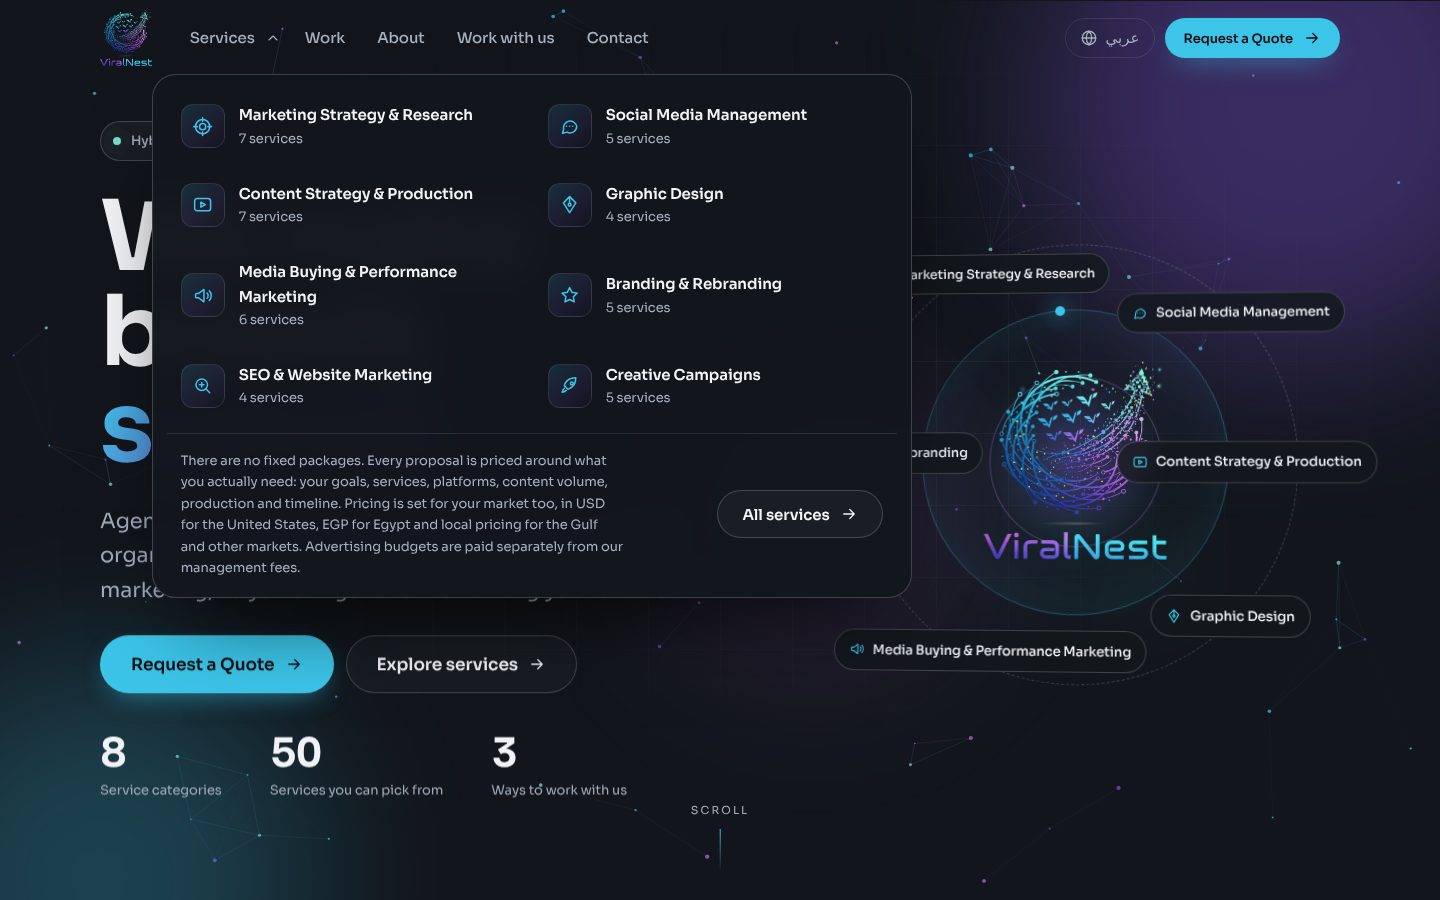
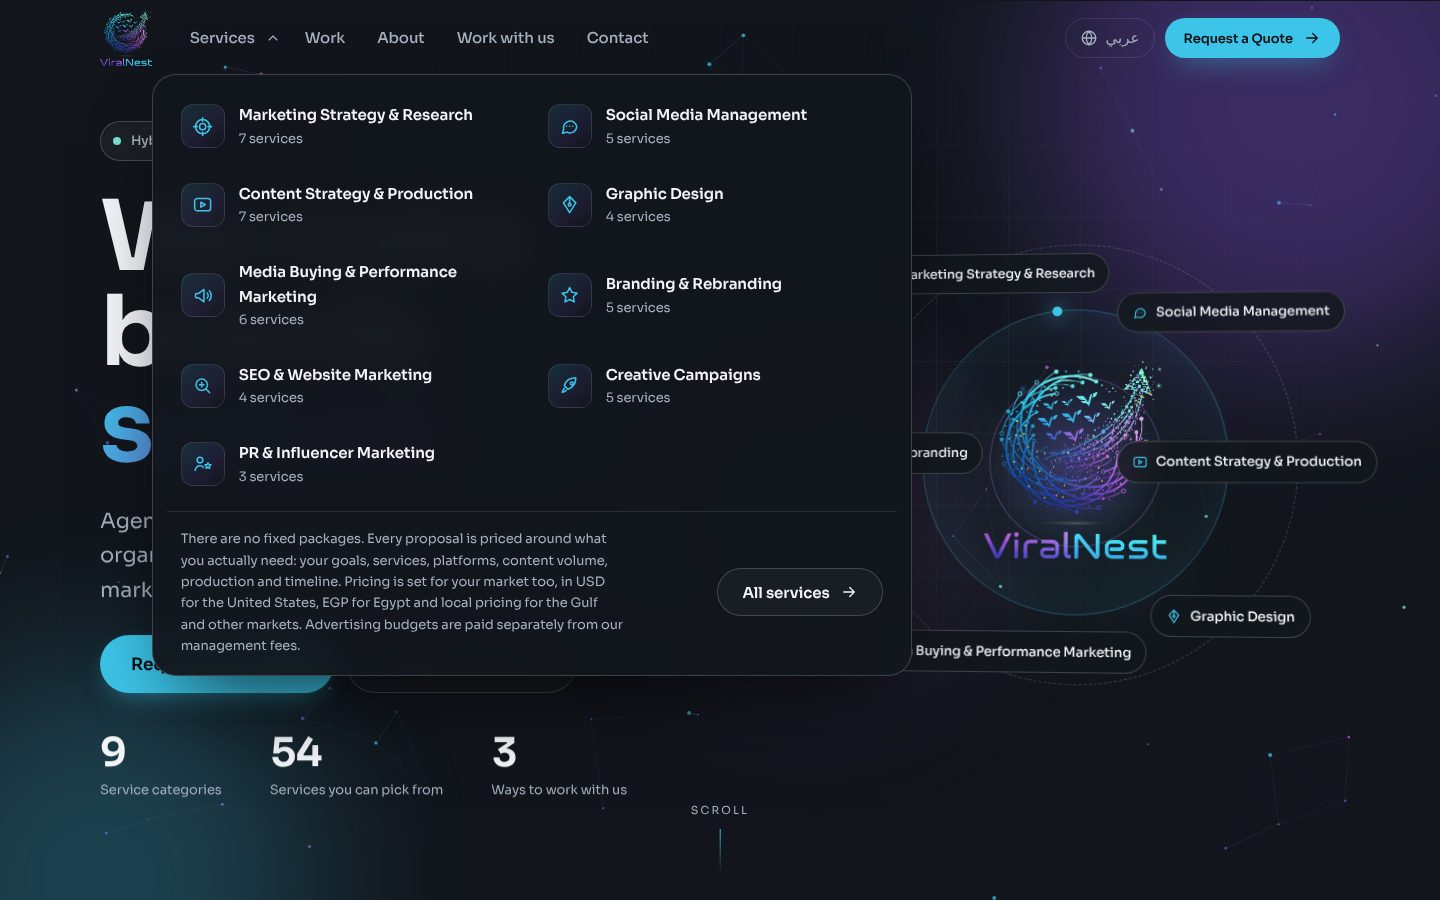
Add PR & Influencer Marketing service (UGC creators, blogger collaborations)
- New service category in EN/AR with its own page, quote-form options and icon
- One-time upgrade patch adds it to sites set up before 2.1.0
- Tests for the service and the upgrade path; screenshots updated

Claude-Session: https://claude.ai/code/session_01BPL8NTVdJPV1mrgSLn53N4

diff --git a/app/src/seed.php b/app/src/seed.php
@@ -3,6 +3,7 @@
  * Starter content, created once by the first-run setup.
  *
  * - The 8 service categories and their sub-services from Part 04 of the ViralNest Master Brief v2.0,
+ *   plus PR & Influencer Marketing (UGC creators and blogger collaborations), added at the owner's request,
  *   published in English and Egyptian Arabic. A focused subset is enabled in the quote form.
  * - Portfolio drafts for the projects named in the brief: unpublished, client not approved, no
  *   results. Nothing here invents results, testimonials, prices or contact details.
@@ -111,6 +112,16 @@ function vn_starter_services(): array {
 				array( 'promotional-sales-campaigns', 'publish', array( 'Promotional and sales campaigns', 'Offers and promotions designed to drive sales.' ), array( 'حملات العروض والمبيعات', 'عروض وبروموشنز معمولة عشان تزوّد المبيعات.' ), 1 ),
 				array( 'brand-awareness-campaigns', 'publish', array( 'Brand awareness campaigns', 'Getting your brand known by the right audience.' ), array( 'حملات الوعي بالبراند', 'نعرّف الجمهور الصح بالبراند بتاعك.' ), 1 ),
 				array( 'creative-advertising-concepts', 'publish', array( 'Creative advertising concepts', 'Big ideas that make your ads memorable.' ), array( 'أفكار إعلانية إبداعية', 'أفكار كبيرة بتخلّي إعلاناتك تتفتكر.' ), 0 ),
+			),
+		),
+		array(
+			'slug' => 'pr-influencer-marketing', 'icon' => 'influencer',
+			'en'   => array( 'PR & Influencer Marketing', 'We connect your brand with new UGC creators and bloggers, and set up the collaborations for you.', 'People trust people. We connect your brand with new UGC creators who make authentic content about your products, and we set up collaborations with bloggers and influencers whose audience fits yours. We handle the coordination for you: choosing the right creators, writing a clear brief, agreeing on the timeline and reviewing the content before it goes live.' ),
+			'ar'   => array( 'العلاقات العامة والتسويق بالمؤثرين', 'بنوصّلك بصنّاع محتوى UGC جداد وبلوجرز، وبنظبطلك التعاون معاهم.', 'الناس بتصدّق الناس. بنوصّل البراند بتاعك بصنّاع محتوى UGC جداد بيعملوا محتوى حقيقي عن منتجاتك، وبنعملك تعاونات مع بلوجرز ومؤثرين جمهورهم شبه جمهورك. وإحنا بنتابع التنسيق كله بدالك: نختار صنّاع المحتوى المناسبين، ونكتب بريف واضح، ونتفق على المواعيد، ونراجع المحتوى قبل ما ينزل.' ),
+			'children' => array(
+				array( 'ugc-creators', 'publish', array( 'UGC creator connections', 'We connect you with new UGC creators who make real, relatable content for your brand.' ), array( 'التوصيل بصنّاع محتوى UGC', 'بنوصّلك بصنّاع محتوى UGC جداد بيعملوا محتوى حقيقي وقريب من الناس للبراند بتاعك.' ), 1 ),
+				array( 'blogger-collaborations', 'publish', array( 'Blogger and influencer collaborations', 'Partnerships with bloggers and influencers whose audience fits your brand.' ), array( 'التعاون مع البلوجرز والمؤثرين', 'شراكات مع بلوجرز ومؤثرين جمهورهم مناسب للبراند بتاعك.' ), 1 ),
+				array( 'collaboration-management', 'publish', array( 'Collaboration management', 'Briefs, timelines and content review, handled for you from start to finish.' ), array( 'إدارة التعاونات', 'البريف والمواعيد ومراجعة المحتوى، بنتابعها بدالك من الأول للآخر.' ), 0 ),
 			),
 		),
 	);
@@ -263,4 +274,27 @@ function vn_seed_projects(): void {
 			}
 		}
 	}
+}
+
+/**
+ * Adds starter services introduced after a site was first set up. Each patch runs once; if the
+ * owner later deletes or edits the service in Studio, it is not re-created or overwritten.
+ */
+function vn_seed_patches(): void {
+	if ( ! kv_get( 'seeded' ) || kv_get( 'seed_patch_pr_influencer' ) ) {
+		return;
+	}
+	foreach ( vn_starter_services() as $svc ) {
+		if ( 'pr-influencer-marketing' !== $svc['slug'] ) {
+			continue;
+		}
+		$pos = (int) db_val( 'SELECT COALESCE(MAX(position), 0) FROM vn_services WHERE parent_id = 0' ) + 10;
+		$pid = vn_seed_service( 0, $svc['slug'], 'publish', $svc['en'], $svc['ar'], 1, $pos, $svc['icon'], false );
+		$co  = 0;
+		foreach ( $svc['children'] as $child ) {
+			vn_seed_service( $pid, $child[0], $child[1], $child[2], $child[3], (int) ( $child[4] ?? 1 ), $co += 10, 'strategy', false );
+		}
+	}
+	kv_set( 'seed_patch_pr_influencer', gmdate( 'c' ) );
+	vn_catalog_flush();
 }

diff --git a/tests/php/run-tests.php b/tests/php/run-tests.php
@@ -92,12 +92,27 @@ vn_migrate();
 check( 'migrations are idempotent', (int) db_val( 'SELECT COUNT(*) FROM vn_migrations' ) === $before );
 vn_seed();
 $tops = (int) db_val( "SELECT COUNT(*) FROM vn_services WHERE parent_id = 0 AND status = 'publish'" );
-check( 'starter content: 8 published service categories', 8 === $tops, (string) $tops );
+check( 'starter content: 9 published service categories', 9 === $tops, (string) $tops );
 check( 'starter content: sub-services seeded', (int) db_val( "SELECT COUNT(*) FROM vn_services WHERE parent_id > 0" ) > 30 );
 check( 'portfolio drafts are not published (no client permission yet)', 0 === (int) db_val( "SELECT COUNT(*) FROM vn_projects WHERE status = 'publish'" ) );
 check( 'portfolio drafts claim no results', 0 === (int) db_val( "SELECT COUNT(*) FROM vn_projects WHERE (outcomes_verified = 1 OR en_outcomes <> '')" ) );
 vn_seed();
 check( 'seeding twice does not duplicate content', $tops === (int) db_val( "SELECT COUNT(*) FROM vn_services WHERE parent_id = 0 AND status = 'publish'" ) );
+$pr = (int) db_val( "SELECT id FROM vn_services WHERE slug = 'pr-influencer-marketing' AND parent_id = 0" );
+check( 'PR & Influencer Marketing service exists in EN and AR', $pr > 0 && '' !== (string) db_val( 'SELECT ar_title FROM vn_services WHERE id = ?', array( $pr ) ) );
+check( 'PR & Influencer Marketing has UGC and blogger sub-services', 2 === (int) db_val( "SELECT COUNT(*) FROM vn_services WHERE parent_id = ? AND slug IN ('ugc-creators','blogger-collaborations') AND quote_enabled = 1", array( $pr ) ) );
+// A site set up before this service existed gets it once on upgrade, and never twice.
+db_q( 'DELETE FROM vn_services WHERE id = ? OR parent_id = ?', array( $pr, $pr ) );
+kv_set( 'seed_patch_pr_influencer', null );
+vn_seed_patches();
+vn_seed_patches();
+check( 'upgrade adds PR & Influencer Marketing once', 1 === (int) db_val( "SELECT COUNT(*) FROM vn_services WHERE slug = 'pr-influencer-marketing'" ) && 3 === (int) db_val( "SELECT COUNT(*) FROM vn_services s JOIN vn_services t ON t.id = s.parent_id WHERE t.slug = 'pr-influencer-marketing'" ) );
+db_q( "DELETE FROM vn_services WHERE slug = 'pr-influencer-marketing'" );
+vn_seed_patches();
+check( 'a deleted PR service is not re-created', 0 === (int) db_val( "SELECT COUNT(*) FROM vn_services WHERE slug = 'pr-influencer-marketing'" ) );
+db_q( "DELETE FROM vn_services WHERE parent_id > 0 AND parent_id NOT IN (SELECT id FROM (SELECT id FROM vn_services) x)" );
+kv_set( 'seed_patch_pr_influencer', null );
+vn_seed_patches();
 check( 'brand images imported to the media library', (int) db_val( 'SELECT COUNT(*) FROM vn_media WHERE brand_asset = 1' ) >= 1 );
 $s = vn_settings();
 check( 'no contact details are invented', '' === $s['public_email'] && '' === $s['public_phone'] && '' === $s['whatsapp_number'] );

diff --git a/app/src/content.php b/app/src/content.php
@@ -235,7 +235,7 @@ You join our specialist network", "قدّم وابعت نماذج من شغلك
 				'about_title'      => array( 'text', 'About: title', 'About ViralNest | Hybrid digital marketing agency', 'عن ViralNest | وكالة تسويق رقمي هجينة' ),
 				'about_desc'       => array( 'textarea', 'About: description', 'Why ViralNest exists, how our hybrid agency model works, and what startups and growing businesses can expect from one coordinated team.', 'ليه عملنا ViralNest، وإزاي نموذج الوكالة الهجين بيشتغل، وتقدر تتوقع إيه من فريق واحد متنسّق.' ),
 				'services_title'   => array( 'text', 'Services: title', 'Digital marketing services | ViralNest', 'خدمات التسويق الرقمي | ViralNest' ),
-				'services_desc'    => array( 'textarea', 'Services: description', 'Marketing strategy and research, social media management, content, graphic design, Meta Ads, branding, SEO and creative campaigns. Buy one service or all of them.', 'استراتيجية وأبحاث تسويق، إدارة سوشيال ميديا، محتوى، تصميم، إعلانات ميتا، براندينج، SEO وحملات إبداعية. خد خدمة واحدة أو كلهم.' ),
+				'services_desc'    => array( 'textarea', 'Services: description', 'Marketing strategy and research, social media management, content, graphic design, Meta Ads, branding, SEO, creative campaigns, and PR and influencer marketing with UGC creators and bloggers. Buy one service or all of them.', 'استراتيجية وأبحاث تسويق، إدارة سوشيال ميديا، محتوى، تصميم، إعلانات ميتا، براندينج، SEO، حملات إبداعية، وعلاقات عامة وتسويق بالمؤثرين مع صنّاع محتوى UGC وبلوجرز. خد خدمة واحدة أو كلهم.' ),
 				'portfolio_title'  => array( 'text', 'Portfolio: title', 'Our work | ViralNest', 'شغلنا | ViralNest' ),
 				'portfolio_desc'   => array( 'textarea', 'Portfolio: description', 'Selected ViralNest projects across strategy, content, design and campaigns.', 'مشاريع مختارة من شغل ViralNest في الاستراتيجية والمحتوى والتصميم والحملات.' ),
 				'contact_title'    => array( 'text', 'Contact: title', 'Contact ViralNest', 'تواصل مع ViralNest' ),

diff --git a/app/src/render.php b/app/src/render.php
@@ -120,6 +120,7 @@ function vn_icon( string $name, string $class = 'vn-icon' ): string {
 		'media'      => '<path d="M4 10.5v3a1 1 0 0 0 1 1h2.5l6 4.5v-14l-6 4.5H5a1 1 0 0 0-1 1Z"/><path d="M17 9a4.2 4.2 0 0 1 0 6M19.5 6.5a8 8 0 0 1 0 11"/>',
 		'branding'   => '<path d="m12 3 2.6 5.3 5.9.9-4.3 4.1 1 5.8L12 16.4l-5.2 2.7 1-5.8-4.3-4.1 5.9-.9z"/>',
 		'seo'        => '<circle cx="11" cy="11" r="6.5"/><path d="m20 20-4.4-4.4M8.5 11h5M11 8.5v5"/>',
+		'influencer' => '<circle cx="9" cy="8" r="3.2"/><path d="M3.5 19.5c.8-3.3 3-5.2 5.5-5.2 1.6 0 3 .7 4 2"/><path d="m18 11 1 2.1 2.3.3-1.7 1.6.4 2.3-2-1.1-2 1.1.4-2.3-1.7-1.6 2.3-.3z"/>',
 		'campaign'   => '<path d="M9 15 6 12c2-6 7-9 13-9 0 6-3 11-9 13z"/><circle cx="14.5" cy="9.5" r="1.6"/><path d="M6 15c-1.6 1.2-2.4 4.6-2.4 4.6s3.4-.8 4.6-2.4"/>',
 		'whatsapp'   => '<path d="M20 11.6a8.4 8.4 0 0 1-12.4 7.3L3.5 20l1.2-4A8.4 8.4 0 1 1 20 11.6Z"/><path d="M9 8.6c.2 3 2.9 5.8 6 6.1l1.2-1.4-1.9-1-1 .7a4.8 4.8 0 0 1-2.6-2.6l.7-1-.9-1.9z"/>',
 		'mail'       => '<rect x="3" y="5" width="18" height="14" rx="3"/><path d="m4 7.5 8 5.5 8-5.5"/>',

diff --git a/app/src/admin.php b/app/src/admin.php
@@ -519,7 +519,7 @@ function vn_admin_send_cv( array $app ): never {
 /* ---------------------------------------------------------------- Services */
 
 function vn_service_icons(): array {
-	return array( 'strategy', 'social', 'content', 'design', 'media', 'branding', 'seo', 'campaign', 'globe', 'users', 'layers', 'spark' );
+	return array( 'strategy', 'social', 'content', 'design', 'media', 'branding', 'seo', 'campaign', 'influencer', 'globe', 'users', 'layers', 'spark' );
 }
 
 function vn_admin_services( int $id, string $sub, bool $post ): void {

diff --git a/app/src/migrate.php b/app/src/migrate.php
@@ -23,6 +23,9 @@ function vn_maybe_migrate(): void {
 		// Tables don't exist yet: fall through and create them.
 	}
 	vn_migrate();
+	if ( function_exists( 'vn_seed_patches' ) ) {
+		vn_seed_patches();
+	}
 	kv_set( 'schema', $want );
 }
 

diff --git a/app/bootstrap.php b/app/bootstrap.php
@@ -8,7 +8,7 @@
 
 declare(strict_types=1);
 
-define( 'VN_VERSION', '2.0.0' );
+define( 'VN_VERSION', '2.1.0' );
 define( 'VN_APP', __DIR__ );
 define( 'VN_STORAGE', __DIR__ . '/storage' );
 if ( ! defined( 'VN_PUBLIC' ) ) {

diff --git a/HANDOVER.md b/HANDOVER.md
@@ -1,10 +1,10 @@
-# ViralNest 2.0 handover
+# ViralNest 2.1 handover
 
 ViralNest is now a custom PHP + MySQL website with its own dashboard, **ViralNest Studio**. WordPress is not used. The old WordPress version is kept on the `wordpress` branch for reference only.
 
 ## What's in the box
 - **Public site (EN + AR, right-to-left):**
-  - Pages: Home, Services (8 categories, each with its own page), Work (portfolio case studies), About, Work with us (freelancer applications), Contact, Request a Quote, Privacy, and 404.
+  - Pages: Home, Services (9 categories, including PR & Influencer Marketing, each with its own page), Work (portfolio case studies), About, Work with us (freelancer applications), Contact, Request a Quote, Privacy, and 404.
   - Features: animations that respect reduced motion, a consent banner, first-party analytics, SEO (sitemap, hreflang, schema) and the real ViralNest logo.
 - **ViralNest Studio (`/admin`):**
   - Overview
@@ -28,7 +28,7 @@ ViralNest is now a custom PHP + MySQL website with its own dashboard, **ViralNes
 | Colours, type, components | `docs/DESIGN-GUIDE.md` |
 | Tables and data retention | `docs/DATABASE-SCHEMA.md` |
 | Screenshots | `design/screenshots/` |
-| Upload package | `dist/viralnest-hostinger-2.0.0.zip` (build with `tools/package.sh`) |
+| Upload package | `dist/viralnest-hostinger-2.1.0.zip` (build with `tools/package.sh`) |
 
 ## Rules this build follows
 - No invented testimonials, results, client logos, prices, contact details or office locations. Prices are hidden until you switch them on.

diff --git a/docs/VERIFICATION-REPORT.md b/docs/VERIFICATION-REPORT.md
@@ -1,6 +1,6 @@
 # ViralNest verification report
 
-**Date:** 23 November 2026 · **Build:** ViralNest 2.0.0 (custom PHP + MySQL, no WordPress)
+**Date:** 23 November 2026 · **Build:** ViralNest 2.1.0 (custom PHP + MySQL, no WordPress)
 
 This report lists only checks that were actually run, with their results. Checks that need the real hosting, real accounts or a human decision are listed under **Pending** below. Those were not run and are not claimed here.
 
@@ -19,7 +19,7 @@ This report lists only checks that were actually run, with their results. Checks
 | Suite | Command | Result |
 |---|---|---|
 | PHP syntax lint | `php -l` on every PHP file | **0 errors** |
-| Integration tests (real database `vn_test`, plus HTTP checks) | `php tests/php/run-tests.php --http` | **101 passed, 0 failed** |
+| Integration tests (real database `vn_test`, plus HTTP checks) | `php tests/php/run-tests.php --http` | **105 passed, 0 failed** |
 | Browser end-to-end tests | `node tests/e2e/run-e2e.js` | **25 passed, 0 failed** |
 | Visual review | 50 screenshots in `design/screenshots/`, reviewed by eye | Done. The issues found were fixed (see below). |
 
